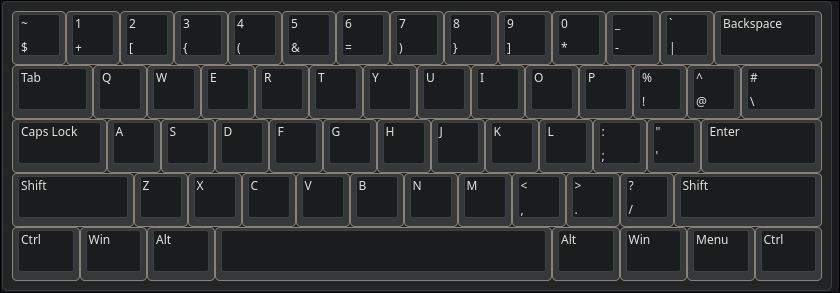
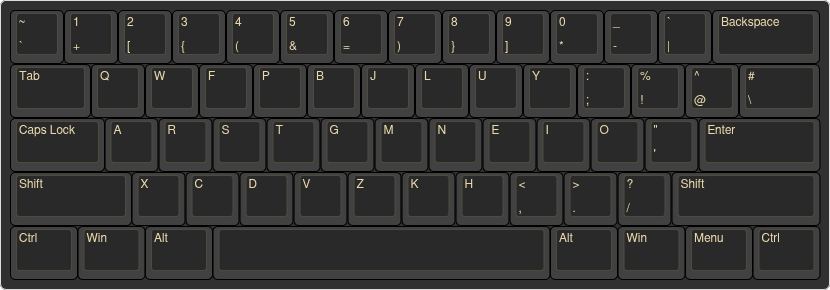
autocommit to dev

Changed region(s): [[0.0, 0.0, 1.0, 1.0]]

diff --git a/env/.config/xkb/symbols/README.md b/env/.config/xkb/symbols/README.md
@@ -4,38 +4,15 @@ My custom layout. Only chaged symbols making it easier on my wrists to type them
 
 Copy or symlink this file to system keyboard layout directory
 ```bash
-cp prog-qwerty /usr/share/X11/xkb/symbols/prog-qwerty
+cp prog-colemak-dh /usr/share/X11/xkb/symbols/prog-qwerty
 ```
-
-## X11
-On X11 you might need to update the `sudo vim /usr/share/X11/xkb/rules/evdev.xml`
-with the following, add it near the other English keyboards
-
-```
-<variant>
-    <configItem>
-        <name>prog-qwerty</name>
-        <description>English (Programmers Qwerty)</description>
-    </configItem>
-</variant>
-```
-
-Or just running `setxkbmap -layout prog-qwerty` should suffice
-
 ## Wayland
 
 For hyprland add this to your config
 
 ```
 input {
-    kb_layout = prog-qwerty
-}
-```
-
-For sway add the following
-```
-input type:keyboard {
-  xkb_layout "prog-qwerty"
+    kb_layout = prog-colemak-dh
 }
 ```
 
